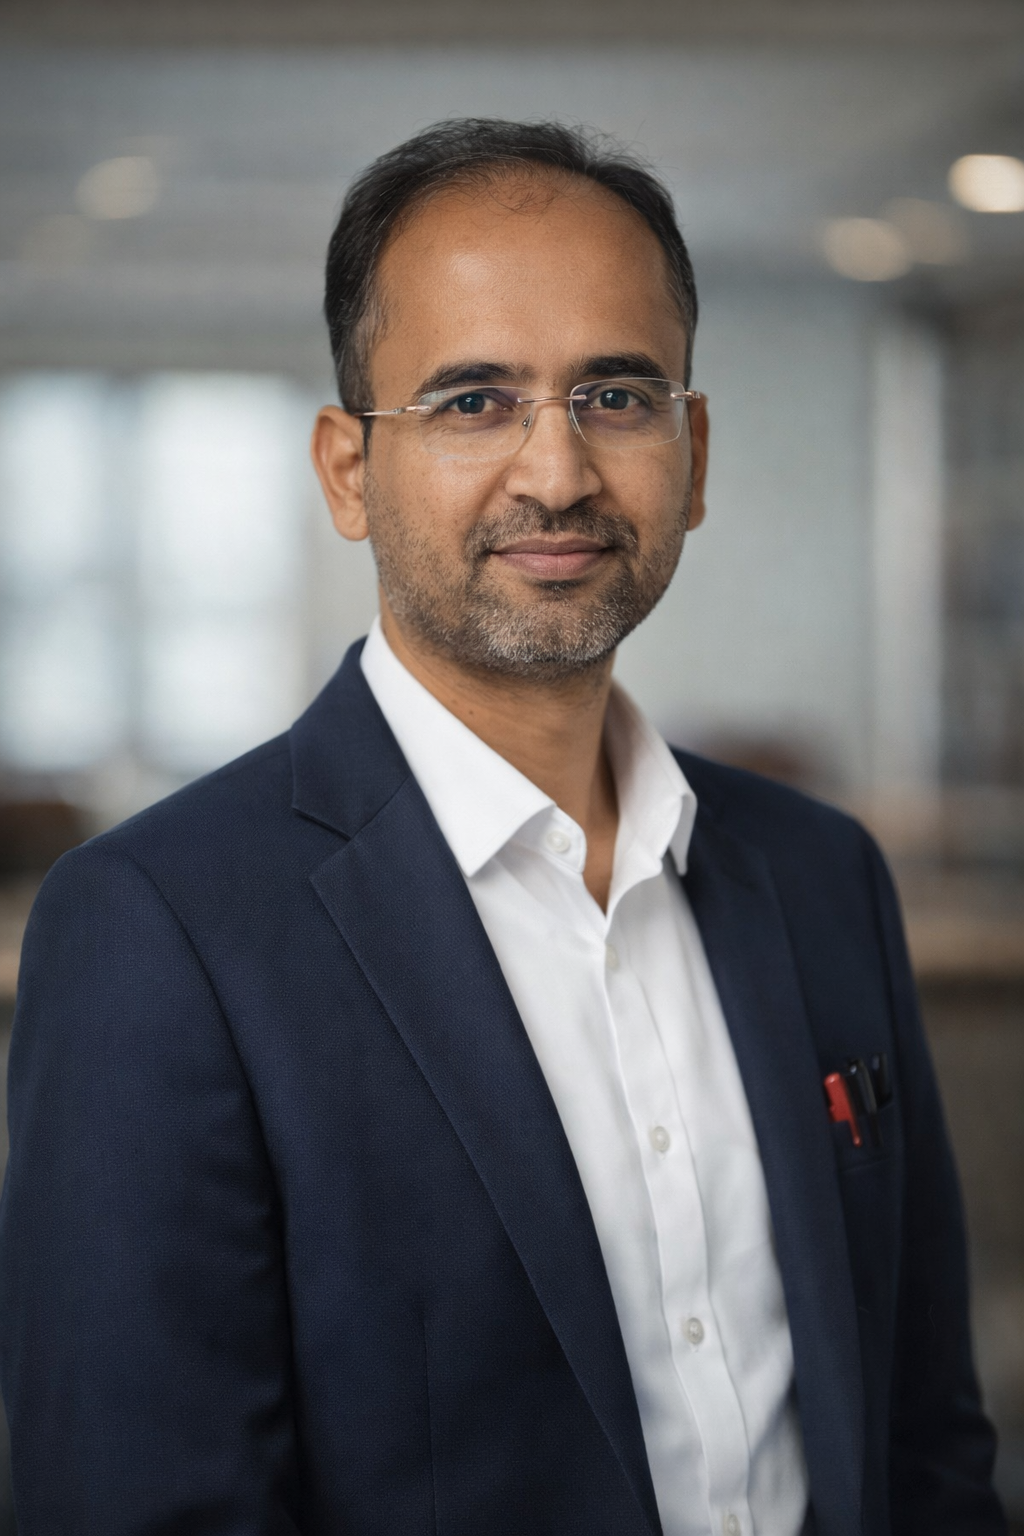
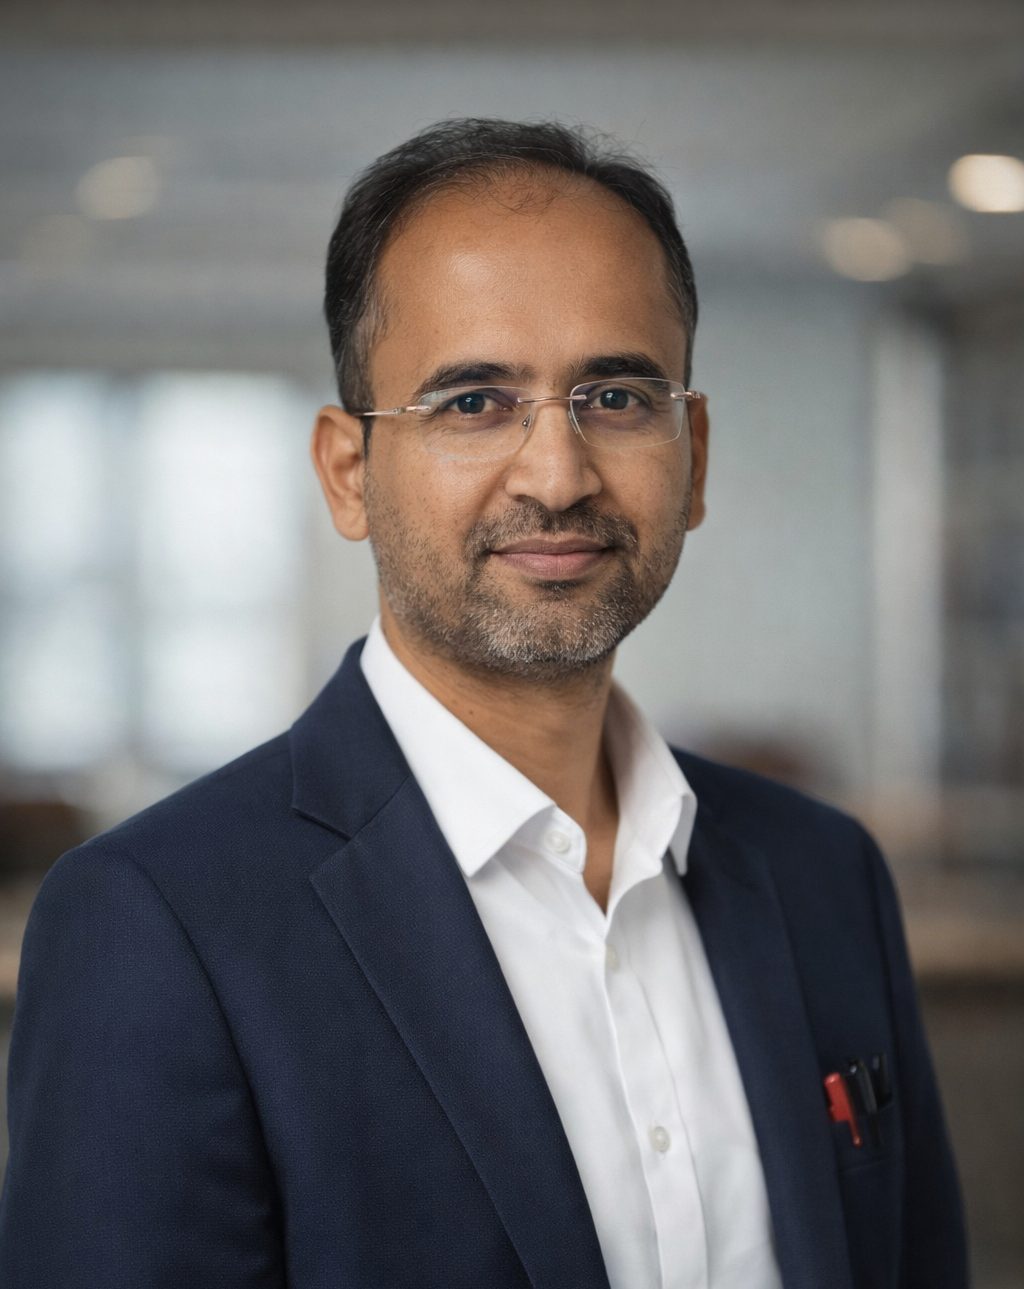
about page
about page photo changes kiye

diff --git a/templates/about.html b/templates/about.html
@@ -357,7 +357,8 @@
                                     <a href="#" class="mentor-social-link"><i class="fas fa-envelope"></i></a>
                                 </div>
                                 <!-- Know More Button -->
-                                <a href="nakesir.html" class="know-more-btn" data-developer="nakesir">
+                                <a href="https://www.gpk.edu.in/NBNProfile.pdf
+" class="know-more-btn" data-developer="nakesir">
                                     <span data-i18n="know_more_btn">Know more</span>
                                     <i class="fas fa-arrow-right"></i>
                                 </a>
@@ -485,7 +486,7 @@
                         <div class="team-card" data-pos="0">
                             <div class="card-inner">
                                 <div class="card-front">
-                                    <img src="/static/images/shaani.png" alt="Shaan Shukla" class="dev-img">
+                                    <img src="/static/images/shukla.png" alt="Shaan Shukla" class="dev-img">
                                     <div class="dev-info">
                                         <h3>Shaan <span>Shukla</span></h3>
                                         <p class="dev-role" data-i18n="shaan_role">Founder & Full Stack Developer</p>
@@ -527,7 +528,7 @@
                         <div class="team-card" data-pos="1">
                             <div class="card-inner">
                                 <div class="card-front">
-                                    <img src="images/dev_4.png" alt="Mohmmad Wasif" class="dev-img">
+                                    <img src="/static/images/wasu.png" alt="Mohmmad Wasif" class="dev-img">
                                     <div class="dev-info">
                                         <h3>Mohmmad <span>Wasif</span></h3>
                                         <p class="dev-role" data-i18n="wasif_role">Co-Founder & Frontend Developer</p>

diff --git a/templates/index.html b/templates/index.html
@@ -143,7 +143,7 @@
     </section>
 
     <!-- Footer -->
-    <footer class="footer">
+   <footer class="footer">
         <div class="footer-wave">
             <svg viewBox="0 0 1200 120" preserveAspectRatio="none">
                 <path d="M0,0V46.29c47.79,22.2,103.59,32.17,158,28,70.36-5.37,136.33-33.31,206.8-37.5C438.64,32.43,512.34,53.67,583,72.05c69.27,18,138.3,24.88,209.4,13.08,36.15-6,69.85-17.84,104.45-29.34C989.49,25,1113-14.29,1200,52.47V0Z" opacity=".25" class="shape-fill"></path>
@@ -187,8 +187,8 @@
             <div class="footer-bottom">
                 <div class="social-links">
                     <a href="https://www.instagram.com/shramikconnect?igsh=MWZxZ2FuOXdkcDJjNA==" class="social-link" aria-label="Instagram"><i class="fab fa-instagram"></i></a>
-                   <a href="https://www.facebook.com/share/1C7zCpyXdQ/" class="social-link" aria-label="Facebook"><i class="fab fa-facebook-f"></i></a>
-
+                    <a href="https://www.facebook.com/share/1C7zCpyXdQ/" class="social-link" aria-label="Facebook"><i class="fab fa-facebook-f"></i></a>
+                    <a href="https://x.com/ShramikConnect" class="social-link" aria-label="X (Twitter)"><i class="fa-brands fa-x-twitter"></i></a>
                     <a href="https://youtube.com/@shramikconnect?si=4p-FRw0gFxA-kkvk" class="social-link" aria-label="YouTube"><i class="fab fa-youtube"></i></a>
                     <a href="mailto:team.shramikconnect@gmail.com" class="social-link" aria-label="Email"><i class="far fa-envelope"></i></a>
                 </div>

diff --git a/templates/know_more_about_developers.html b/templates/know_more_about_developers.html
@@ -198,7 +198,7 @@
                 <div class="team-card" data-pos="0">
                     <div class="card-inner">
                         <div class="card-front">
-                            <img src="/static/images/shaani.png" alt="Shaan Shukla" class="dev-img">
+                            <img src="/static/images/shukla.png" alt="Shaan Shukla" class="dev-img">
                             <div class="dev-info">
                                 <h3>Shaan <span>Shukla</span></h3>
                                 <p class="dev-role" data-i18n="shaan_role">Founder & Full Stack Developer</p>
@@ -240,7 +240,7 @@
                 <div class="team-card" data-pos="1">
                     <div class="card-inner">
                         <div class="card-front">
-                            <img src="images/dev_4.png" alt="Mohmmad Wasif" class="dev-img">
+                            <img src="/static/images/wasu.png" alt="Mohmmad Wasif" class="dev-img">
                             <div class="dev-info">
                                 <h3>Mohmmad <span>Wasif</span></h3>
                                 <p class="dev-role" data-i18n="wasif_role">Co-Founder & Frontend Developer</p>

diff --git a/static/css/style.css b/static/css/style.css
@@ -1106,17 +1106,7 @@ body {
     color: white;
 }
 
-/* YouTube - Red */
-.social-link:nth-child(3):hover {
-    background: #FF0000;
-    border-color: #FF0000;
-    transform: translateY(-8px) scale(1.15) rotateX(10deg);
-    box-shadow: 0 10px 20px rgba(255, 0, 0, 0.4);
-}
-.social-link:nth-child(3):hover i {
-    color: white;
-    animation: youtubePulse 0.8s ease;
-}
+
 
 /* X (Twitter) - Black */
 .social-link:nth-child(4):hover {

diff --git a/core/migrations/0001_initial.py b/core/migrations/0001_initial.py
@@ -1,4 +1,4 @@
-# Generated by Django 4.2.16 on 2026-03-15 12:18
+# Generated by Django 4.2.16 on 2026-03-20 08:13
 
 import django.core.validators
 from django.db import migrations, models
@@ -116,9 +116,30 @@ class Migration(migrations.Migration):
                 ('acceptance_time', models.DateTimeField(blank=True, null=True)),
                 ('hired_date', models.DateTimeField(blank=True, null=True)),
                 ('completion_date', models.DateTimeField(blank=True, null=True)),
+                ('employer_read', models.BooleanField(default=False)),
+                ('worker_read', models.BooleanField(default=False)),
                 ('created_at', models.DateTimeField(auto_now_add=True)),
                 ('updated_at', models.DateTimeField(auto_now=True)),
             ],
+            options={
+                'ordering': ['-applied_date'],
+            },
+        ),
+        migrations.CreateModel(
+            name='MobileOTP',
+            fields=[
+                ('id', models.BigAutoField(auto_created=True, primary_key=True, serialize=False, verbose_name='ID')),
+                ('mobile', models.CharField(max_length=10, validators=[django.core.validators.RegexValidator('^[6-9]\\d{9}$', 'Enter a valid 10-digit mobile number')], verbose_name='Mobile Number')),
+                ('otp', models.CharField(max_length=6, verbose_name='OTP')),
+                ('created_at', models.DateTimeField(auto_now_add=True, verbose_name='Created At')),
+                ('is_verified', models.BooleanField(default=False, verbose_name='Is Verified')),
+            ],
+            options={
+                'verbose_name': 'Mobile OTP',
+                'verbose_name_plural': 'Mobile OTPs',
+                'db_table': 'mobile_otp',
+                'ordering': ['-created_at'],
+            },
         ),
         migrations.CreateModel(
             name='Worker',
@@ -186,6 +207,9 @@ class Migration(migrations.Migration):
                 ('job', models.ForeignKey(null=True, on_delete=django.db.models.deletion.SET_NULL, to='core.job')),
                 ('worker', models.ForeignKey(null=True, on_delete=django.db.models.deletion.SET_NULL, to='core.worker')),
             ],
+            options={
+                'ordering': ['-completion_date'],
+            },
         ),
         migrations.AddIndex(
             model_name='worker',
@@ -202,6 +226,10 @@ class Migration(migrations.Migration):
         migrations.AddIndex(
             model_name='worker',
             index=models.Index(fields=['created_at'], name='worker_created_038df0_idx'),
+        ),
+        migrations.AddIndex(
+            model_name='mobileotp',
+            index=models.Index(fields=['mobile', 'created_at'], name='mobile_otp_mobile_e72e1b_idx'),
         ),
         migrations.AddField(
             model_name='jobapplication',
@@ -238,5 +266,9 @@ class Migration(migrations.Migration):
             model_name='chatmessage',
             name='application',
             field=models.ForeignKey(on_delete=django.db.models.deletion.CASCADE, related_name='messages', to='core.jobapplication'),
+        ),
+        migrations.AlterUniqueTogether(
+            name='jobapplication',
+            unique_together={('job', 'worker')},
         ),
     ]
